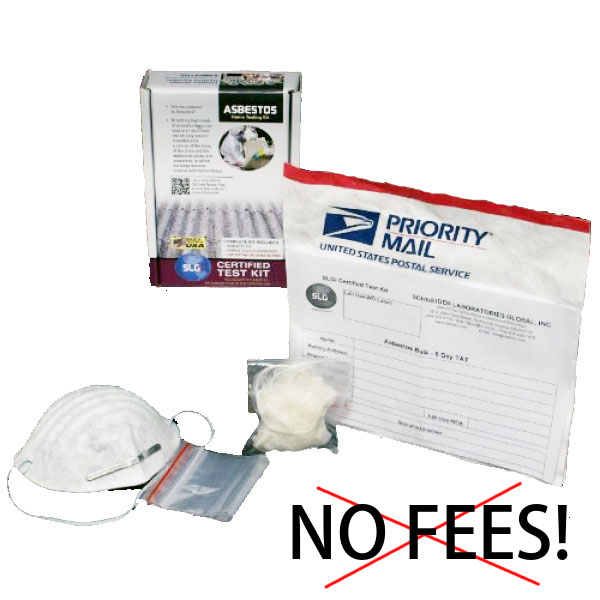
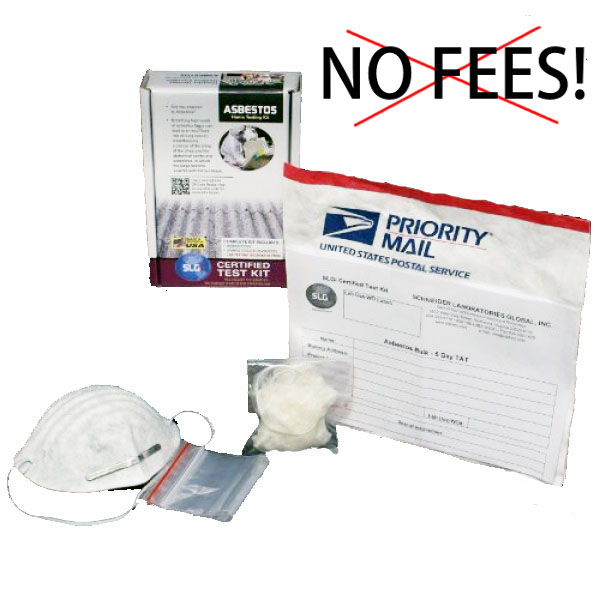
changes from 2.20.17

Changed region(s): [[0.48, 0.81, 0.96, 0.99], [0.54, 0.03, 0.99, 0.21], [0.54, 0.96, 0.57, 0.99]]

diff --git a/product69.html b/product69.html
@@ -20,7 +20,7 @@
           gts.push(["id", "735397"]);
           gts.push(["badge_position", "BOTTOM_RIGHT"]);
           gts.push(["locale", "en_US"]);
-          gts.push(["google_base_offer_id", "KAQUN"]);
+          gts.push(["google_base_offer_id", "MighTeaFlow"]);
           gts.push(["google_base_subaccount_id", "114458806"]);
 
           (function() {
@@ -33,11 +33,10 @@
           })();
         </script>
         <!-- END: Google Trusted Stores -->
-        <title>12Pk Kaqun Oxygenated Water - Protects, Strengthens, Renews</title>
+        <title>8-PK MighTeaFlow Chewing Gum for Dry Mouth</title>
         <meta name="description" content="">
         <meta name="viewport" content="width=device-width">
-        <link rel="icon" href="img/homegoods-icon.png">
-        <link rel="icon" href="img/homegoods-icon.png">
+        <link rel="icon" href="img/healthy-icon.png">
         <link rel="stylesheet" href="css/bootstrap.min.css">
         <link rel="stylesheet" href="css/icomoon-social.css">
         <link href='http://fonts.googleapis.com/css?family=Open+Sans:400,700,600,800' rel='stylesheet' type='text/css'>
@@ -57,14 +56,15 @@
             <p class="chromeframe">You are using an <strong>outdated</strong> browser. Please <a href="http://browsehappy.com/">upgrade your browser</a> or <a href="http://www.google.com/chromeframe/?redirect=true">activate Google Chrome Frame</a> to improve your experience.</p>
         <![endif]-->
 
+        <!-- Microdata for Condition -->
         <div itemscope itemtype="http://schema.org/Product">
-          <meta itemprop="name" content="12Pk Kaqun Oxygenated Water - Protects, Strengthens, Renews<" />
-          <meta itemprop="mpn" content="B00QU3A9YI" />
-          <meta itemprop="brand" content="KAQUN" />
+          <meta itemprop="name" content="8-PK MighTeaFlow Chewing Gum for Dry Mouth" />
+          <meta itemprop="mpn" content="RCA1" />
+          <meta itemprop="brand" content="MighTeaFlow" />
 
           <div itemprop="offers" itemscope itemtype="http://schema.org/Offer">
             <meta itemprop="priceCurrency" content="USD" />
-            <meta itemprop="price" content="134.99" />
+            <meta itemprop="price" content="29.99" />
             <link itemprop="itemCondition" itemtype="http://schema.org/OfferItemCondition" content="http://schema.org/NewCondition"/>
             <link itemprop="availability" content="http://schema.org/InStock"/>
           </div>
@@ -111,22 +111,20 @@
 	    			<!-- Product Image & Available Colors -->
 	    			<div class="col-sm-6">
 	    				<div class="product-image-large">
-	    					<img src="img/410fEewyUNL.jpg" alt="12Pk Kaqun Oxygenated Water - Protects, Strengthens, Renews">
+	    					<img src="img/1420840_Andy_(1)__67770_zoom.jpg" alt="8-PK MighTeaFlow Chewing Gum for Dry Mouth">
 	    				</div>
 	    			</div>
 	    			<!-- End Product Image & Available Colors -->
 	    			<!-- Product Summary & Options -->
 	    			<div class="col-sm-6 product-details">
-	    				<h4>12Pk Kaqun Oxygenated Water - Protects, Strengthens, Renews</h4>
-	    				<h5 style="color: red;">Limited Time Offer!</h5>
-              <div class="price">
-                <span class="price-was">$225.00</span> $134.99
-              </div>
-						<h5>Quick Overview</h5>
-              <p>
-                No Other Water Has These Qualities. Kaqun water protects, strengthens and renews. Most people think oxygen can only be delivered to the body by breathing air, but oxygen also exists in the form of liquid oxygen. Most of our bodies are depleted of oxygen as we age and cell regeneration is inhibited. Kaqun liquid oxygen is able to deliver oxygen to your cells internally to keep you healthy and in some cases reverse aging signs. You'll feel like a whole new person.
-              </p>
-						<table class="shop-item-selections" style="margin-bottom: 20px;">
+	    				<h4>8-PK MighTeaFlow Chewing Gum for Dry Mouth</h4>
+	    				<div class="price">
+                $29.99
+						  </div>
+  						<h5>Quick Overview</h5>
+                <p>Cure your dry mouth with MighTeaFlow naturally flavored Spearmint chewing gum. MighTeaFlow Dry Mouth Chewing Gum helps relieve mouth dryness and freshen breath. MighTeaFlow Green Tea formula with Xylitol is the only dry mouth management product line that can increase one’s own saliva flow by up to 400 percent and increase salivary pH from acidic to neutral.</p>
+                <p>It contains powerful antioxidants from green tea and the bacteria inhibiting natural sweetener Xylitol. Clinical trials have shown Xylitol alone does not help saliva flow, which is why combining with the MighTeaFlow Green Tea Formula is the best way to treat dry mouth.</p>
+						<table class="shop-item-selections">
 							<!-- Quantity -->
 							<tr>
 								<td><b>Quantity:</b></td>
@@ -138,24 +136,10 @@
 							<tr>
 								<td>&nbsp;</td>
 								<td>
-									<a id="buylink" href="http://secure.homegoodsstorenearme.com/cgi-bin/UCEditor?merchantId=WCP&ADD=KQN" class="btn btn"><i class="icon-shopping-cart icon-white"></i> Add to Cart</a>
+									<a id="buylink" href="http://secure.householditemshealthyliving.com/cgi-bin/UCEditor?merchantId=WCP&ADD=MighTeaFlow" class="btn btn"><i class="icon-shopping-cart icon-white"></i> Add to Cart</a>
 								</td>
 							</tr>
 						</table>
-            <table  style="margin-top: 10px;">
-              <!-- Quantity -->
-              <tr>
-                
-                <td><p class="price" style="font-size: 15px; margin: 15px 10px 5px 5px;">TRY A 2 PACK FOR $22.99</p></td>
-                <td style="padding: 5px 10px 5px 5px;"><b>Quantity:</b></td>
-                <td style="padding: 5px 10px 5px 5px;"> 
-                  <input type="text" class="form-control input-sm input-micro" value="1">
-                </td>
-                <td>
-                  <a id="buylink" href="http://secure.homegoodsstorenearme.com/cgi-bin/UCEditor?merchantId=WCP&ADD=2KQN" class="btn btn"><i class="icon-shopping-cart icon-white"></i> Add to Cart</a>
-                </td>
-              </tr>
-            </table>
 	    			</div>
 	    			<!-- End Product Summary & Options -->
 
@@ -171,47 +155,38 @@
 							<div class="tab-content product-detail-info">
 								<div class="tab-pane active" id="tab1">
 									<h4>Product Description</h4>
-                    <p>
-                      The oxygen in Kaqun water penetrates the mucous membranes of the stomach and gastrointestinal tract, and then penetrates the tissues. This process occurs quickly, reducing mental and physical tiredness within a short period of time.
-                    </p>
-                    <p>
-                      Regular consumption of the oxygen in Kaqun water facilitates the ongoing repair and regeneration of cells. It also helps with the detoxification process while refreshing and re-energizing the body. Kaqun water can help to reduce inflammation and allergic symptoms, prevent hypoxia (lack of oxygen in the body), and provide alkalizing qualities to the body.
-                    </p>
-                    <p>
-                      There are no chemicals or toxic materials used in the production of Kaqun water, and the oxygen is already in liquid form and not made from an outside source. It has a low level of minerals and has undergone a purification process.
-                    </p>
-                    <p>
-                      Please note when ordering Kaqun products that the expiration date is in european format e.g. day|month|year.
-                    </p>
-                    <p>
-                      These statements have not been evaluated by the Food and Drug Administration.These products are not intended to diagnose, treat, cure or prevent any disease.
-                    </p>
-                    <p>
-                      <ul>
-                        <li>All Natural</li>
-                        <li>Liquid oxygen water</li>
-                        <li>Detoxifies, refreshes, and energizes</li>
-                        <li>Reduces tiredness</li>
-                        <li>Alkalizes the body</li>
-                      </ul>
-                    </p>
+                  <ul>
+                    <li>Naturally increases one's saliva flow by up to 400%.</li>
+                    <li>Increases salivary pH from acidic to neutral (neutral pH helps protect against tooth decay and enamel erosion).</li>
+                    <li>Contains powerful antioxidants from green tea and the bacteria inhibiting natural sweetener Xylitol. Clinical trials have shown Xylitol alone does not help saliva flow.</li>
+                    <li>NO Sugar, Saccharin, Gluten, Glucose - Safe for Diabetics</li>
+                    <li>10 pieces per pack – and 80 pieces per case.</li>
+                  </ul>
                 </div>
 								<!-- Tab Content (Specification) -->
 								<div class="tab-pane" id="tab2">
 									<table>
                     <tr>
-                      <td>Product Dimensions:</td>
-                      <td>14.8 x 14 x 12.2 inches </td>
+                      <td>Package Quantity:</td>
+                      <td>8</td>
                     </tr>
-                    <tr>
-                      <td>Shipping Weight:</td>
-                      <td>42.5 pounds</td>
-                    </tr>
-                    <tr>
-                      <td>Manufacturer:</td>
-                      <td>BodyHealth.com LLC </td>
-                    </tr>
-				          </table>
+										<tr>
+											<td>Product Dimensions:</td>
+											<td>4.2 x 1.9 x 5.1 inches</td>
+										</tr>
+										<tr>
+											<td>Shipping Weight:</td>
+											<td>8.8 ounces</td>
+										</tr>
+										<tr>
+											<td>UPC:</td>
+											<td>858168003018 788454408619 884195529924 882983294245</td>
+										</tr>
+										<tr>
+											<td>Item model number:</td>
+											<td>7.88E+11</td>
+										</tr>
+									</table>
 								</div>
 							</div>
 						</div>

diff --git a/view_all.html b/view_all.html
@@ -268,10 +268,10 @@
 					<div class="col-sm-4">
 						<div class="shop-item">
 							<div class="image">
-								<a href="product15.html"><img src="img/nofee-asbestos-kit.jpg" class="img-thumb" alt="Schneider Asbestos Testing Kit  "></a>
+								<a href="product15.html"><img src="img/asbestos-kit.jpg" class="img-thumb" alt="Schneider Asbestos Testing Kit  "></a>
 							</div>
 							<div class="title">
-								<h3><a href="product15.html">Asbestos Home Testing Kit - 1 Business Day Processing Available</a></h3>
+								<h3><a href="product15.html">Asbestos Home Testing Kit (Premium SLGI Certified Test)</a></h3>
 							</div>
 							<div class="price">
 								$43.99
@@ -541,10 +541,10 @@
 					<div class="col-sm-4">
 						<div class="shop-item">
 							<div class="image">
-								<a href="product34.html"><img src="img/410fEewyUNL.jpg" class="img-thumb" alt="KAQUN WATER 12 pack, Oxygenated, refreshing, pronounced Cocoon"></a>
+								<a href="product34.html"><img src="img/410fEewyUNL.jpg" class="img-thumb" alt="12Pk Kaqun Oxygenated Water - Protects, Strengthens, Renews"></a>
 							</div>
 							<div class="title">
-								<h3><a href="product34.html">KAQUN WATER 12 pack, Oxygenated, refreshing, pronounced Cocoon</a></h3>
+								<h3><a href="product34.html">12Pk Kaqun Oxygenated Water - Protects, Strengthens, Renews</a></h3>
 							</div>
 							<div class="price">
 								$134.99
@@ -854,11 +854,11 @@ MISTI is laser etched..</p>
 						<div class="shop-item">
 							<!-- Product Image -->
 							<div class="image">
-								<a href="product7.html"><img src="img/61h7WiUwanL._SL1500_.jpg" class="img-thumb" alt="Shoulderpod S1 Professional Smartphone Rig, Tripod Mount, Filmmaker Grip, and Traveler Stand"></a>
+								<a href="product7.html"><img src="img/61h7WiUwanL._SL1500_.jpg" class="img-thumb" alt="Shoulderpod S1 Smartphone Camera Rig - Free Shipping"></a>
 							</div>
 							<!-- Product Title -->
 							<div class="title">
-								<h3><a href="product7.html">Shoulderpod S1 Professional Smartphone Rig, Tripod Mount, Filmmaker Grip, and Traveler Stand</a></h3>
+								<h3><a href="product7.html">Shoulderpod S1 Smartphone Camera Rig - Free Shipping</a></h3>
               				</div>
 							<!-- Product Price-->
 							<div class="price">
@@ -1463,6 +1463,25 @@ The diving case is extremely durable and water resistant to 40 meters. The silic
               </div>
               <div class="actions">
                 <a href="product68.html" class="btn"><i class="icon-shopping-cart icon-white"></i> View</a>
+              </div>
+            </div>
+          </div>
+          <div class="col-sm-4">
+            <div class="shop-item">
+              <div class="image">
+                <a href="product69.html"><img src="img/1420840_Andy_(1)__67770_zoom.jpg" class="img-thumb" alt="8-PK MighTeaFlow Chewing Gum for Dry Mouth"></a>
+              </div>
+              <div class="title">
+                <h3><a href="product69.html">8-PK MighTeaFlow Chewing Gum for Dry Mouth</a></h3>
+              </div>
+              <div class="price">
+                $29.99
+              </div>
+              <div class="description">
+                <p>Cure your dry mouth with MighTeaFlow naturally flavored Spearmint chewing gum. MighTeaFlow Dry...</p>
+              </div>
+              <div class="actions">
+                <a href="product69.html" class="btn"><i class="icon-shopping-cart icon-white"></i> View</a>
               </div>
             </div>
           </div>

diff --git a/product15a.html b/product15a.html
@@ -33,7 +33,7 @@
           })();
         </script>
         <!-- END: Google Trusted Stores -->
-        <title>Asbestos Home Testing Kit - 1 Business Day Processing Available</title>
+        <title>Asbestos Home Testing Kit (Premium SLGI Certified Test)</title>
         <meta name="description" content="">
         <meta name="viewport" content="width=device-width">
         <link rel="icon" href="img/homegoods-icon.png">
@@ -58,7 +58,7 @@
         <![endif]-->
 
         <div itemscope itemtype="http://schema.org/Product">
-          <meta itemprop="name" content="Asbestos Home Testing Kit - 1 Business Day Processing Available" />
+          <meta itemprop="name" content="Asbestos Home Testing Kit (Premium SLGI Certified Test)" />
           <meta itemprop="mpn" content="B008J3ZK8M" />
           <meta itemprop="brand" content="Schneider" />
 
@@ -111,13 +111,13 @@
 	    			<!-- Product Image & Available Colors -->
 	    			<div class="col-sm-6">
 	    				<div class="product-image-large">
-	    					<img src="img/nofee-asbestos-kit.jpg" alt="Schneider Asbestos Testing Kit  ">
+	    					<img src="img/asbestos-kit.jpg" alt="Schneider Asbestos Testing Kit  ">
 	    				</div>
 	    			</div>
 	    			<!-- End Product Image & Available Colors -->
 	    			<!-- Product Summary & Options -->
 	    			<div class="col-sm-6 product-details">
-	    				<h4>Asbestos Home Testing Kit - 1 Business Day Processing Available</h4>
+	    				<h4>Asbestos Home Testing Kit (Premium SLGI Certified Test)</h4>
 	    				<h5 style="color: red;">Limited Time Offer - 40% Off! </h5>
               <div class="price">
                 <span class="price-was">$72.00</span> $43.99

diff --git a/product15.html b/product15.html
@@ -33,7 +33,7 @@
           })();
         </script>
         <!-- END: Google Trusted Stores -->
-        <title>Asbestos Home Testing Kit - 1 Business Day Processing Available</title>
+        <title>Asbestos Home Testing Kit (Premium SLGI Certified Test)</title>
         <meta name="description" content="">
         <meta name="viewport" content="width=device-width">
         <link rel="icon" href="img/homegoods-icon.png">
@@ -58,7 +58,7 @@
         <![endif]-->
 
         <div itemscope itemtype="http://schema.org/Product">
-          <meta itemprop="name" content="Asbestos Home Testing Kit - 1 Business Day Processing Available" />
+          <meta itemprop="name" content="Asbestos Home Testing Kit (Premium SLGI Certified Test)" />
           <meta itemprop="mpn" content="B008J3ZK8M" />
           <meta itemprop="brand" content="Schneider" />
 
@@ -111,13 +111,13 @@
 	    			<!-- Product Image & Available Colors -->
 	    			<div class="col-sm-6">
 	    				<div class="product-image-large">
-	    					<img src="img/nofee-asbestos-kit.jpg" alt="Schneider Asbestos Testing Kit  ">
+	    					<img src="img/asbestos-kit.jpg" alt="Schneider Asbestos Testing Kit  ">
 	    				</div>
 	    			</div>
 	    			<!-- End Product Image & Available Colors -->
 	    			<!-- Product Summary & Options -->
 	    			<div class="col-sm-6 product-details">
-	    				<h4>Asbestos Home Testing Kit - 1 Business Day Processing Available</h4>
+	    				<h4>Asbestos Home Testing Kit (Premium SLGI Certified Test)</h4>
 	    				<h5 style="color: red;">Limited Time Offer!</h5>
               <div class="price">
                 <span class="price-was">$47.00</span> $43.99

diff --git a/product7.html b/product7.html
@@ -33,7 +33,7 @@
           })();
         </script>
         <!-- END: Google Trusted Stores -->
-        <title>Shoulderpod S1 Smartphone Camera Rig</title>
+        <title>Shoulderpod S1 Smartphone Camera Rig - Free Shipping</title>
         <meta name="description" content="">
         <meta name="viewport" content="width=device-width">
         <link rel="icon" href="img/homegoods-icon.png">
@@ -110,13 +110,13 @@
 	    			<!-- Product Image & Available Colors -->
 	    			<div class="col-sm-6">
 	    				<div class="product-image-large">
-	    					<img src="img/61h7WiUwanL._SL1500_.jpg" alt="Shoulderpod S1 Smartphone Camera Rig">
+	    					<img src="img/61h7WiUwanL._SL1500_.jpg" alt="Shoulderpod S1 Smartphone Camera Rig - Free Shipping">
 	    				</div>
 	    			</div>
 	    			<!-- End Product Image & Available Colors -->
 	    			<!-- Product Summary & Options -->
 	    			<div class="col-sm-6 product-details">
-	    				<h4>Shoulderpod S1 Smartphone Camera Rig</h4>
+	    				<h4>Shoulderpod S1 Smartphone Camera Rig - Free Shipping</h4>
 	    				<h5 style="color: red;">Limited Time Offer!</h5>
               <div class="price">
                 <span class="price-was">$37.99</span> $24.99

diff --git a/product-page7.html b/product-page7.html
@@ -99,11 +99,11 @@
 						<div class="shop-item">
 							<!-- Product Image -->
 							<div class="image">
-								<a href="product7.html"><img src="img/61h7WiUwanL._SL1500_.jpg" class="img-thumb" alt="Shoulderpod S1 Smartphone Camera Rig"></a>
+								<a href="product7.html"><img src="img/61h7WiUwanL._SL1500_.jpg" class="img-thumb" alt="Shoulderpod S1 Smartphone Camera Rig - Free Shipping"></a>
 							</div>
 							<!-- Product Title -->
 							<div class="title">
-								<h3><a href="product7.html">Shoulderpod S1 Smartphone Camera Rig</a></h3>
+								<h3><a href="product7.html">Shoulderpod S1 Smartphone Camera Rig - Free Shipping</a></h3>
               				</div>
 							<!-- Product Price-->
 							<div class="price">

diff --git a/product-page4.html b/product-page4.html
@@ -164,10 +164,10 @@
 					<div class="col-sm-4">
 						<div class="shop-item">
 							<div class="image">
-								<a href="product34.html"><img src="img/410fEewyUNL.jpg" class="img-thumb" alt="KAQUN WATER 12 pack, Oxygenated, refreshing, pronounced Cocoon"></a>
+								<a href="product34.html"><img src="img/410fEewyUNL.jpg" class="img-thumb" alt="12Pk Kaqun Oxygenated Water - Protects, Strengthens, Renews"></a>
 							</div>
 							<div class="title">
-								<h3><a href="product34.html">KAQUN WATER 12 pack, Oxygenated, refreshing, pronounced Cocoon</a></h3>
+								<h3><a href="product34.html">12Pk Kaqun Oxygenated Water - Protects, Strengthens, Renews</a></h3>
 							</div>
 							<div class="price">
 								$134.99

diff --git a/product-page2.html b/product-page2.html
@@ -143,10 +143,10 @@
 					<div class="col-sm-4">
 						<div class="shop-item">
 							<div class="image">
-								<a href="product15.html"><img src="img/nofee-asbestos-kit.jpg" class="img-thumb" alt="Schneider Asbestos Testing Kit  "></a>
+								<a href="product15.html"><img src="img/asbestos-kit.jpg" class="img-thumb" alt="Schneider Asbestos Testing Kit  "></a>
 							</div>
 							<div class="title">
-								<h3><a href="product15.html">Asbestos Home Testing Kit - 1 Business Day Processing Available</a></h3>
+								<h3><a href="product15.html">Asbestos Home Testing Kit (Premium SLGI Certified Test)</a></h3>
 							</div>
 							<div class="price">
 								$43.99
